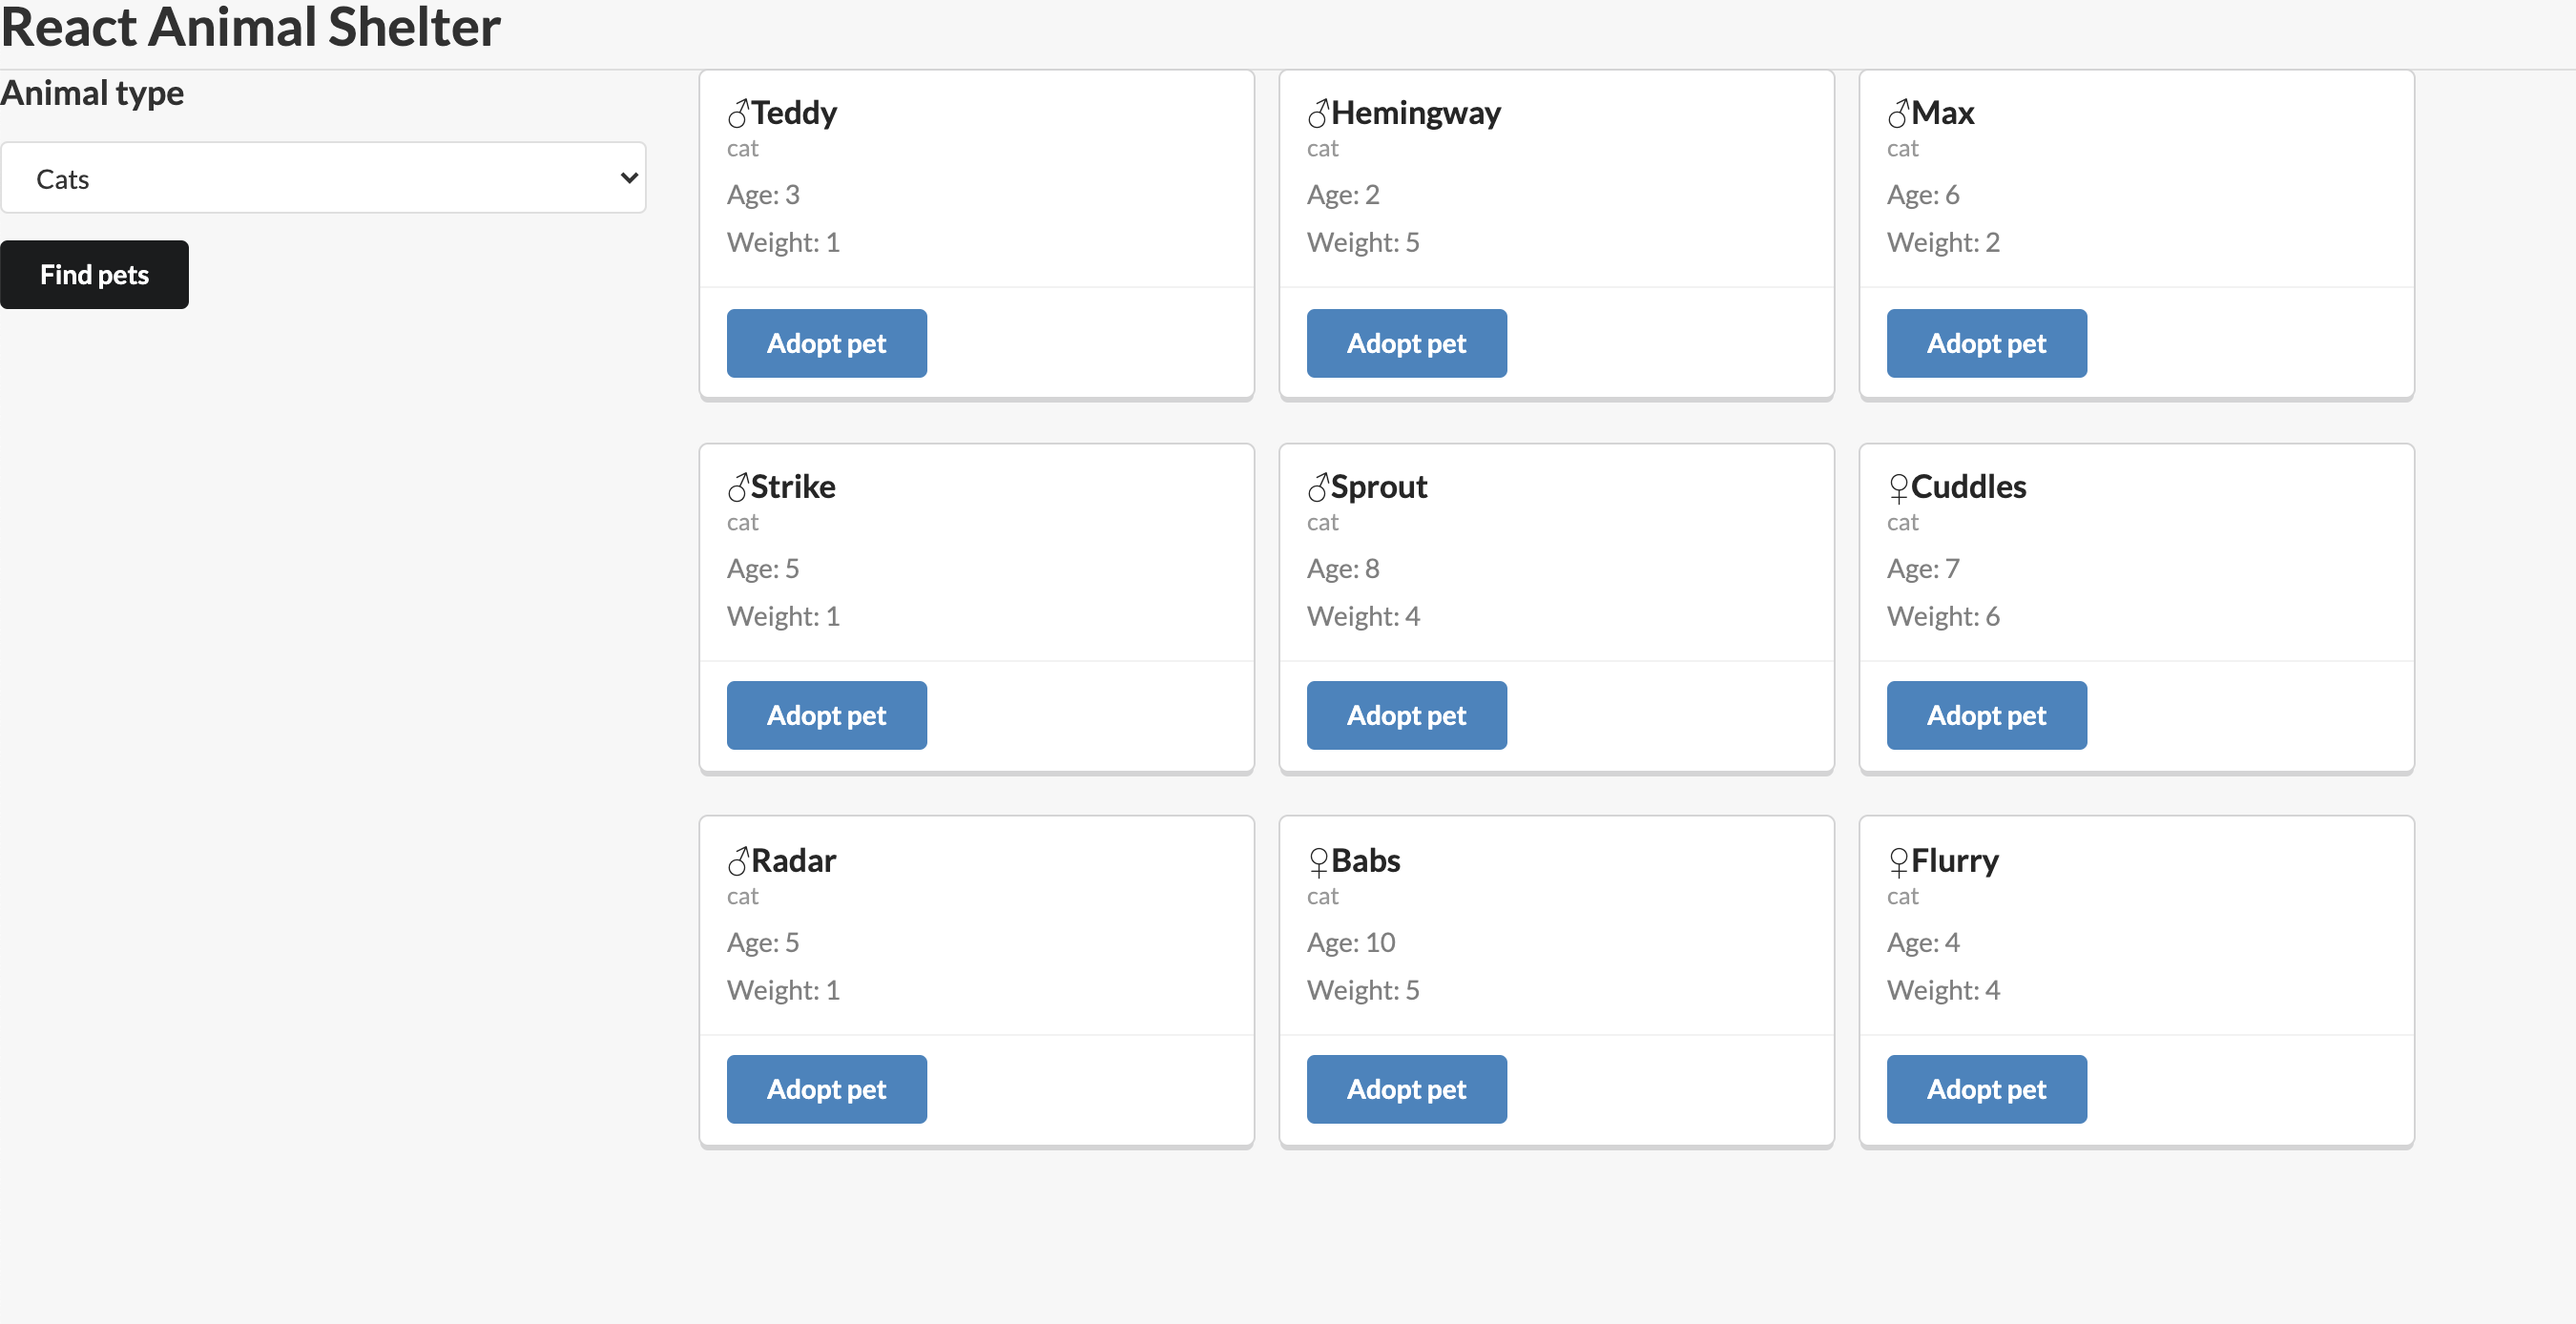
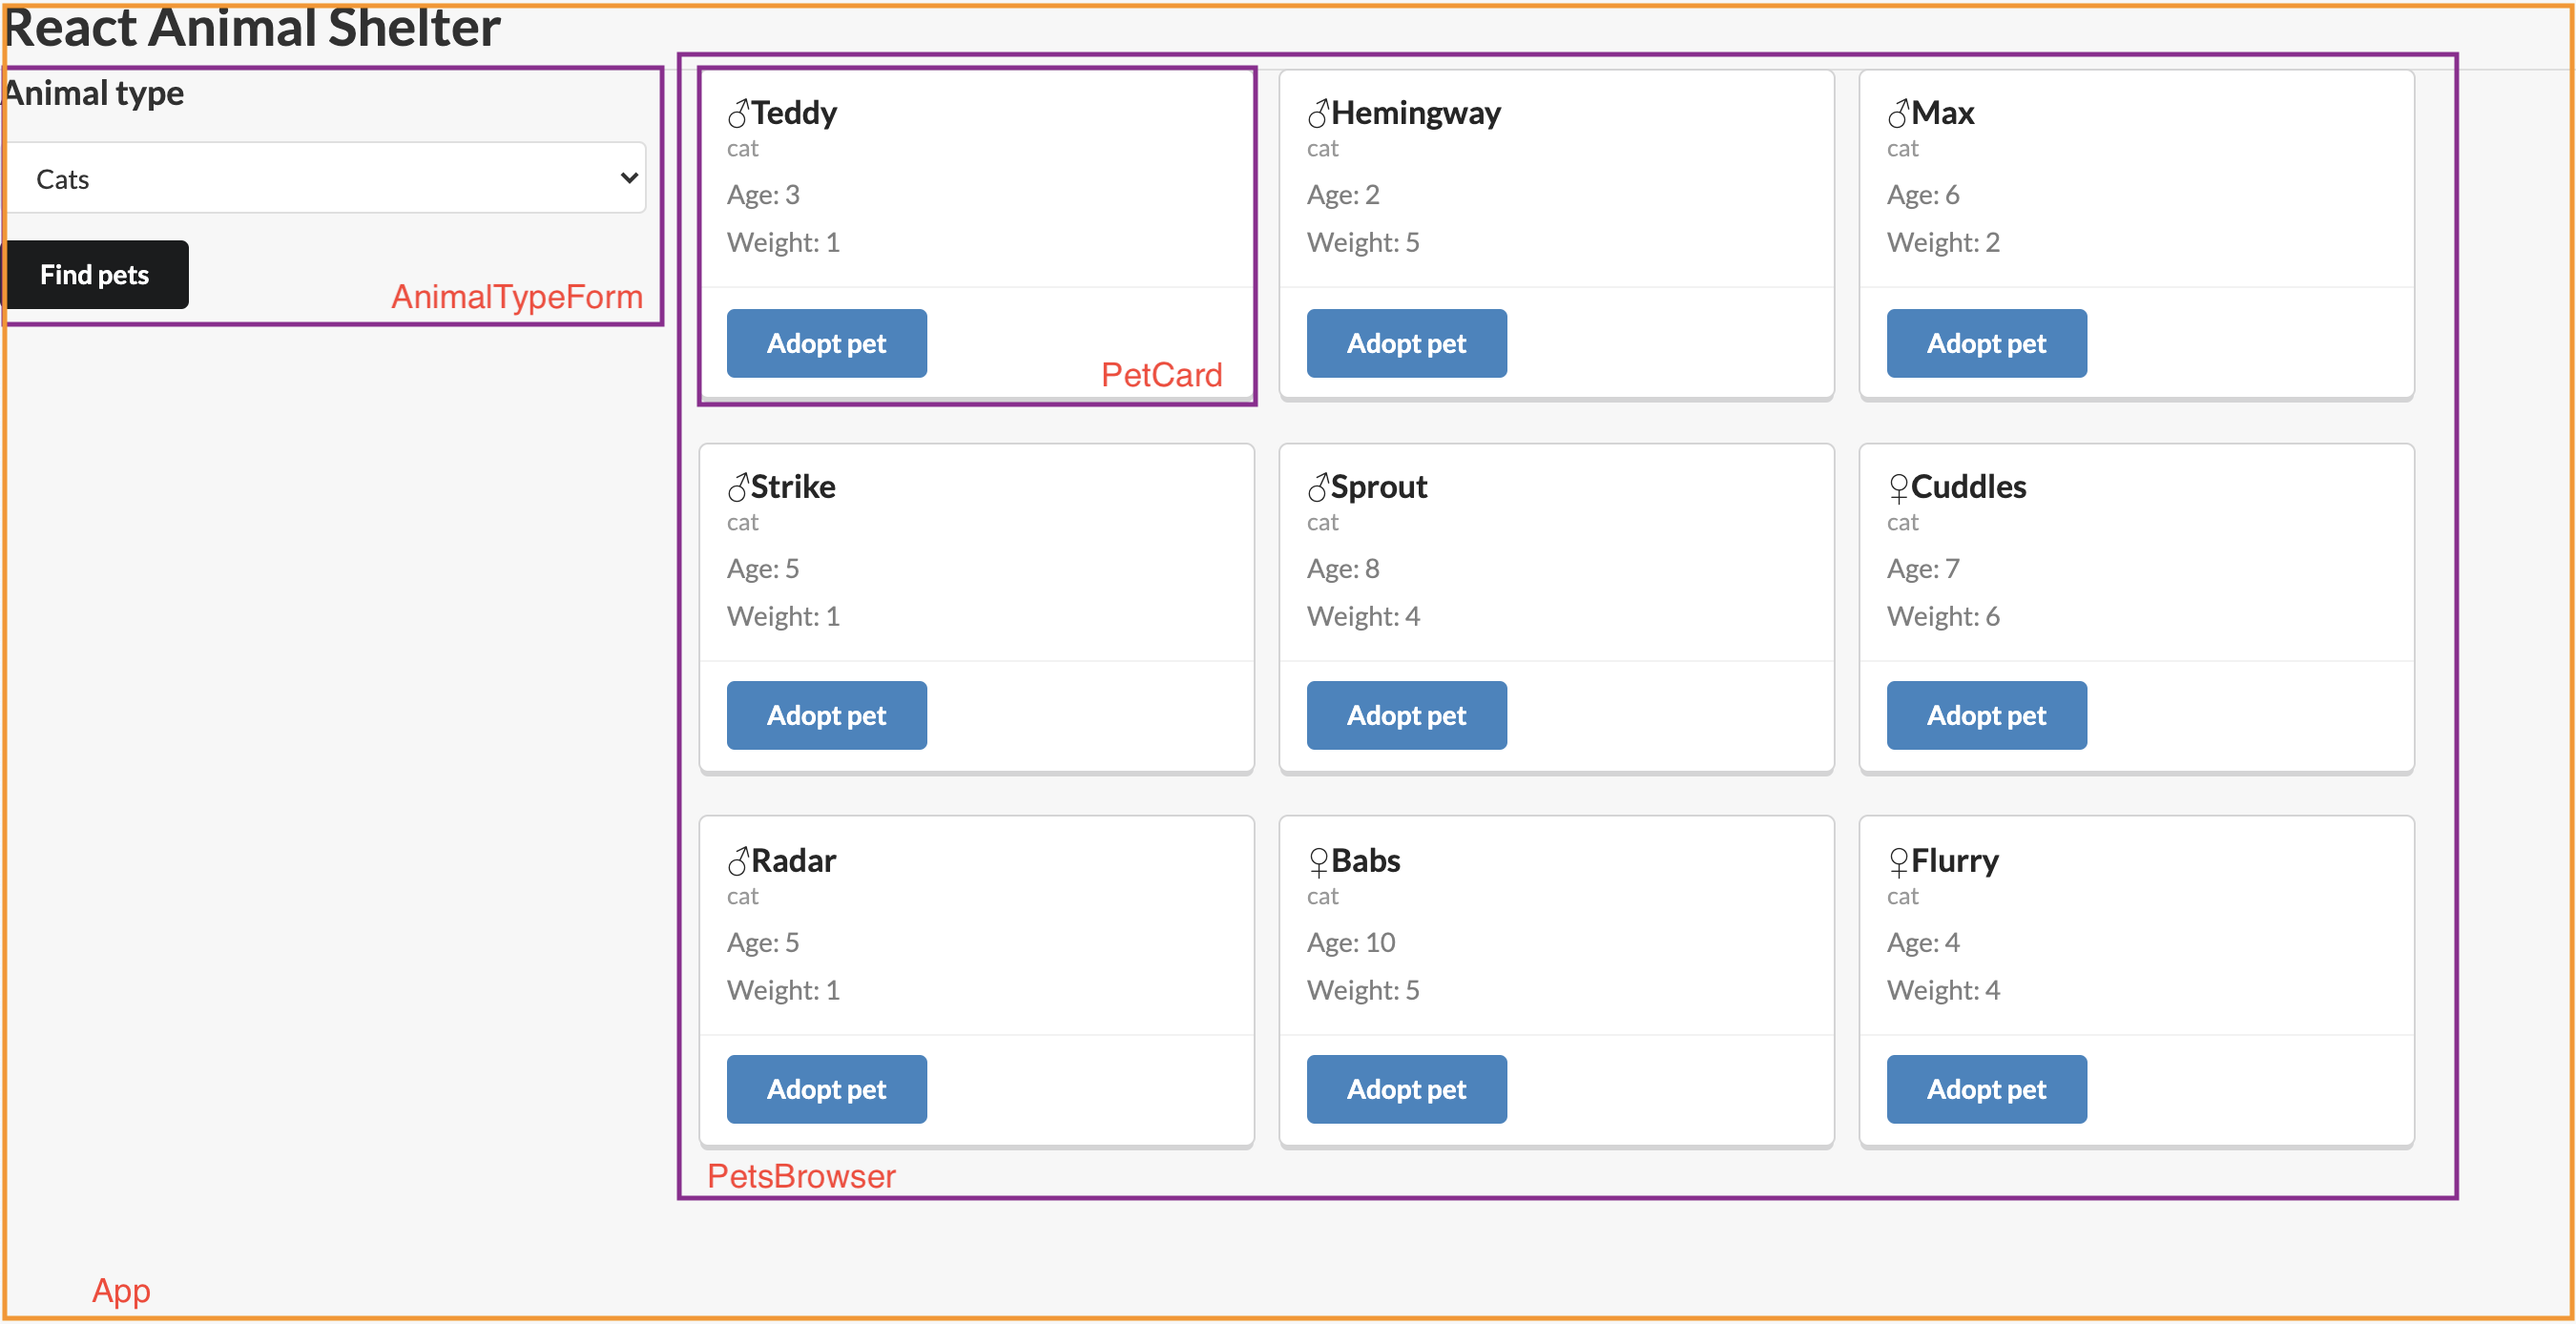
after lecture 43

Changed region(s): [[0.0, 0.0, 1.0, 1.0], [0.2489, 0.8674, 0.9644, 0.9294]]

diff --git a/43-thinking-in-react-pets/src/components/App.js b/43-thinking-in-react-pets/src/components/App.js
@@ -15,6 +15,34 @@ class App extends React.Component {
     }
   }
 
+  onAdoptPet = (id) => {
+    console.log(id)
+    const pets = [...this.state.pets]
+    this.setState({pets: pets.map(pet => pet.id !== id ? pet : {...pet, isAdopted: true})})
+  }
+
+  onChangeType = (type) => {
+    // alert(type)
+    this.setState({filters: { type }})
+  }
+
+  //   '/api/pets'
+  // '/api/pets?type=cat' (dog, micropig)
+  onFindPetsClick = () => {
+    // alert('clicked')
+    let endpoint
+    if (this.state.filters.type === 'all') {
+      endpoint = '/api/pets'
+    } else {
+      endpoint = `/api/pets?type=${this.state.filters.type}`
+    }
+
+    fetch(endpoint)
+     .then(res => res.json())
+     .then(pets => this.setState({ pets }))
+
+  }
+
 
   render() {
     return (
@@ -25,10 +53,13 @@ class App extends React.Component {
         <div className="ui container">
           <div className="ui grid">
             <div className="four wide column">
-              <Filters />
+              <Filters 
+                onChangeType={this.onChangeType} 
+                onFindPetsClick={this.onFindPetsClick}
+                />
             </div>
             <div className="twelve wide column">
-              <PetBrowser />
+              <PetBrowser pets={this.state.pets} onAdoptPet={this.onAdoptPet}/>
             </div>
           </div>
         </div>

diff --git a/43-thinking-in-react-pets/src/components/Pet.js b/43-thinking-in-react-pets/src/components/Pet.js
@@ -1,25 +1,31 @@
 import React from 'react'
 
 class Pet extends React.Component {
+
+  
   render() {
+    // console.log(this.props)
+    const {id, age, gender, name, type, weight, isAdopted} = this.props.pet
+  
     return (
       <div className="card">
         <div className="content">
           <a className="header">
-            {/*'♀' OR '♂' */}
-            PET NAME
+            {gender === 'female' ? '♀' : '♂'}
+            {name}
           </a>
           <div className="meta">
-            <span className="date">PET TYPE</span>
+            <span className="date">{type}</span>
           </div>
           <div className="description">
-            <p>Age: PET AGE</p>
-            <p>Weight: PET WEIGHT</p>
+            <p>Age: {age}</p>
+            <p>Weight: {weight}</p>
           </div>
         </div>
         <div className="extra content">
-          <button className="ui disabled button">Already adopted</button>
-          <button className="ui primary button">Adopt pet</button>
+          {isAdopted ? <button className="ui disabled button">Already adopted</button>: <button onClick={() => this.props.onAdoptPet(id)} className="ui primary button">Adopt pet</button>}
+          
+          
         </div>
       </div>
     )

diff --git a/43-thinking-in-react-pets/src/components/Filters.js b/43-thinking-in-react-pets/src/components/Filters.js
@@ -2,12 +2,17 @@ import React from 'react'
 
 class Filters extends React.Component {
 
+  handleChange = e => {
+    // alert(e.target.value)
+    this.props.onChangeType(e.target.value)
+  }
+
   render() {
     return (
       <div className="ui form">
         <h3>Animal type</h3>
         <div className="field">
-          <select name="type" id="type" >
+          <select onChange={this.handleChange} name="type" id="type" >
             <option value="all">All</option>
             <option value="cat">Cats</option>
             <option value="dog">Dogs</option>
@@ -16,7 +21,7 @@ class Filters extends React.Component {
         </div>
 
         <div className="field">
-          <button className="ui secondary button" >Find pets</button>
+          <button onClick={this.props.onFindPetsClick} className="ui secondary button" >Find pets</button>
         </div>
       </div>
     )

diff --git a/43-thinking-in-react-pets/src/components/PetBrowser.js b/43-thinking-in-react-pets/src/components/PetBrowser.js
@@ -4,7 +4,13 @@ import Pet from './Pet'
 
 class PetBrowser extends React.Component {
   render() {
-    return <div className="ui cards">PET COMPONENT SHOULD GO HERE</div>
+    return <div className="ui cards">
+      {this.props.pets.map(pet => 
+        (<Pet 
+          pet={pet} 
+          key={pet.id}
+          onAdoptPet={this.props.onAdoptPet}/>))}
+    </div>
   }
 }
 

diff --git a/43-thinking-in-react-pets/Notes.md b/43-thinking-in-react-pets/Notes.md
@@ -17,12 +17,12 @@ No persistence
   - <PetBrowser />
     - Receives pets [] (the filtered pets)
     - Receives onAdoptPet(id), updates isAdopted to true
-    - <Pet />
-      - Receives pet { name, type, age, weight, gender, isAdopted }
-        - For gender, displays male (`♂`) or female (`♀`) symbol 
-        - For isAdopted: true => disabled button, false => primary button
-      - Receives onAdoptPet(id), updates isAdopted to true
-        - Does not get called if pet already adopted
+      - <Pet />
+        - Receives pet { name, type, age, weight, gender, isAdopted }
+          - For gender, displays male (`♂`) or female (`♀`) symbol 
+          - For isAdopted: true => disabled button, false => primary button
+        - Receives onAdoptPet(id), updates isAdopted to true
+          - Does not get called if pet already adopted
 
 ## Endpoints
 
